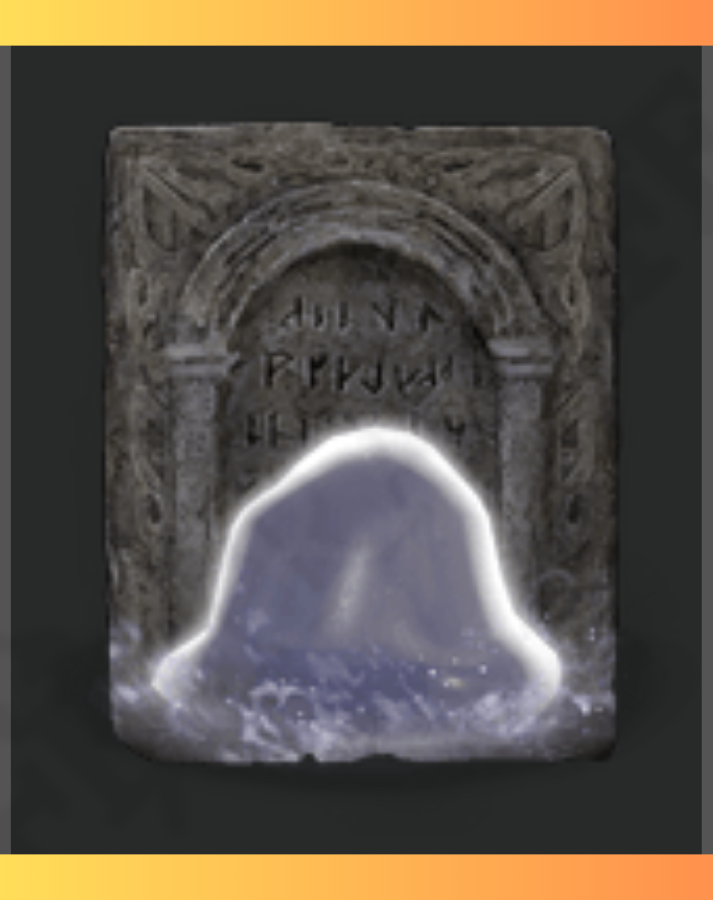
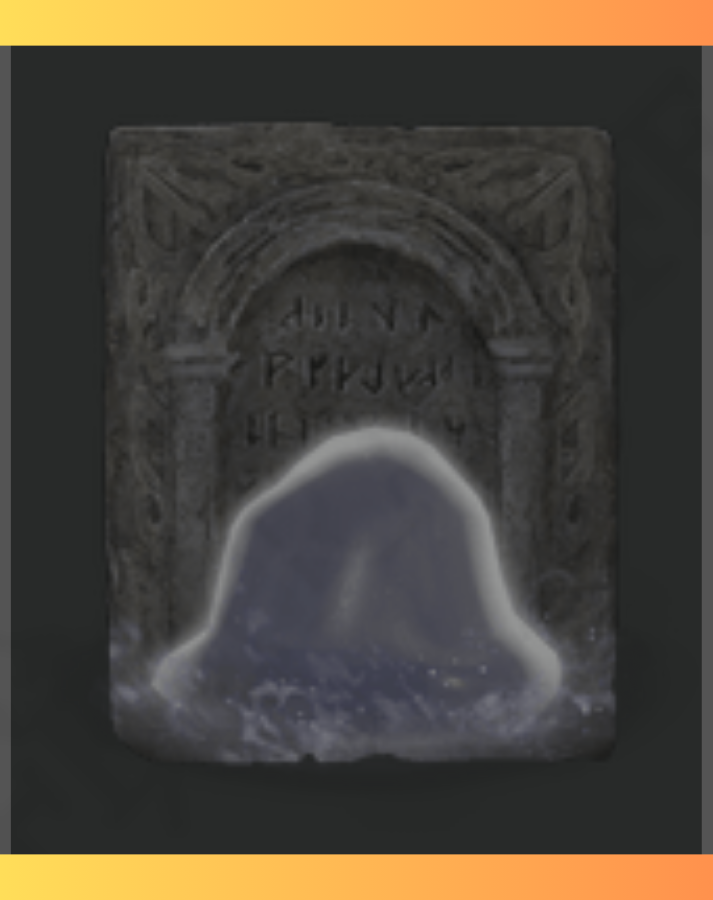
ECHOE-67 | Implement Spirit Ash System
[ADD] Added new assets for spirit ash indicator mimic tear.
[FEATURE] Implemented hover effect for the spirit ash of the HumanPlayer.
[FEATURE] NPC SpiritAshIndicator is now drawn, to visualize the state of its spirit ash.

diff --git a/MonoZenith/Components/Indicator/SpiritAshIndicator.cs b/MonoZenith/Components/Indicator/SpiritAshIndicator.cs
@@ -10,16 +10,16 @@ public class SpiritAshIndicator : Indicator
 {
     private readonly SpiritAsh _spiritAsh;
     private readonly SoundEffectInstance _soundOnClick;
-    private readonly bool _isVisible;
-    public bool IsActive;
+    private readonly bool _hasHumanOwner;
+    public bool IsActive { get; set; }
     
-    public SpiritAshIndicator(Game g, GameState gs, Vector2 pos, Texture2D tex, SpiritAsh ash, bool visible = true)
+    public SpiritAshIndicator(Game g, GameState gs, Vector2 pos, Texture2D tex, SpiritAsh ash, bool hasHumanOwner = true)
         : base(g, gs, pos, tex)
     {   
         _spiritAsh = ash;
         _soundOnClick = DataManager.GetInstance(g).SpiritAshSummonSound.CreateInstance();
         IsActive = true;
-        _isVisible = visible;
+        _hasHumanOwner = hasHumanOwner;
     }
 
     public override void Update(GameTime deltaTime)
@@ -62,11 +62,14 @@ public class SpiritAshIndicator : Indicator
     
     public override void Draw()
     {
-        if (!_isVisible)
-            return;
-        
         if (IsActive)
         {
+            if (IsHovered() && _hasHumanOwner)
+            {
+                _game.DrawImage(_spiritAsh.TextureHovered, _position, GetScale());
+                return;
+            }
+            
             _game.DrawImage(_spiritAsh.TextureEnabled, _position, GetScale());
             return;
         }

diff --git a/MonoZenith/Engine/Support/DataManager.cs b/MonoZenith/Engine/Support/DataManager.cs
@@ -31,6 +31,7 @@ namespace MonoZenith.Engine.Support
         public Texture2D ReserveIndicator;
         public Texture2D MimicTearIndicatorDisabled;
         public Texture2D MimicTearIndicatorEnabled;
+        public Texture2D MimicTearIndicatorHover;
         public Texture2D EndTurnButtonIdleTexture;
         public Texture2D EndTurnButtonHoverTexture;
         public Texture2D EndTurnButtonDisabledTexture;
@@ -102,6 +103,7 @@ namespace MonoZenith.Engine.Support
             ReserveIndicator = _game.LoadImage("Images/Indicators/reserve-indicator.png");
             MimicTearIndicatorEnabled = _game.LoadImage("Images/Indicators/mimic-tear-indicator-enabled.png");
             MimicTearIndicatorDisabled = _game.LoadImage("Images/Indicators/mimic-tear-indicator-disabled.png");
+            MimicTearIndicatorHover = _game.LoadImage("Images/Indicators/mimic-tear-indicator-hover.png");
             CardBack = _game.LoadImage("Images/Cards/back-card-design.png");
             CardFront = _game.LoadImage("Images/Cards/front-card-design.png");
             CardHidden = _game.LoadImage("Images/Cards/card-hidden.png");

diff --git a/MonoZenith/Players/NpcPlayer.cs b/MonoZenith/Players/NpcPlayer.cs
@@ -44,7 +44,9 @@ namespace MonoZenith.Players
             base.InitializeState(game, state);
             _spiritAshIndicator = new SpiritAshIndicator(
                 game, state, 
-                new Vector2(game.ScreenWidth * 0.05f, game.ScreenHeight * 0.085f), 
+                new Vector2(
+                    _game.ScreenWidth - 100 * AppSettings.Scaling.ScaleFactor, 
+                    25 * AppSettings.Scaling.ScaleFactor),
                 DataManager.GetInstance(game).MimicTearIndicatorDisabled, 
                 new MimicTearAsh(state, this), 
                 false);
@@ -325,6 +327,8 @@ namespace MonoZenith.Players
             _game.DrawRectangle(Color.Goldenrod, edgePosition, healthWidth + 2, healthHeight + 2);
             _game.DrawRectangle(Color.DarkGray, healthPosition, healthWidth, healthHeight);
             _game.DrawRectangle(Color.DarkRed, healthPosition, (int)(healthWidth * (Health / 100f)), healthHeight);
+            
+            _spiritAshIndicator.Draw();            
         }
     }
 }

diff --git a/MonoZenith/Items/SpiritAsh.cs b/MonoZenith/Items/SpiritAsh.cs
@@ -13,6 +13,7 @@ public abstract class SpiritAsh
     
     public Texture2D TextureEnabled { get; set; }
     public Texture2D TextureDisabled { get; set; }
+    public Texture2D TextureHovered { get; set; }
     
     protected SpiritAsh(GameState state, Player owner)
     {
@@ -57,6 +58,7 @@ public class MimicTearAsh : SpiritAsh
     {
         TextureDisabled = DataManager.GetInstance(state.Game).MimicTearIndicatorDisabled;
         TextureEnabled = DataManager.GetInstance(state.Game).MimicTearIndicatorEnabled;
+        TextureHovered = DataManager.GetInstance(state.Game).MimicTearIndicatorHover;
     }
 
     protected override void PerformEffect()
